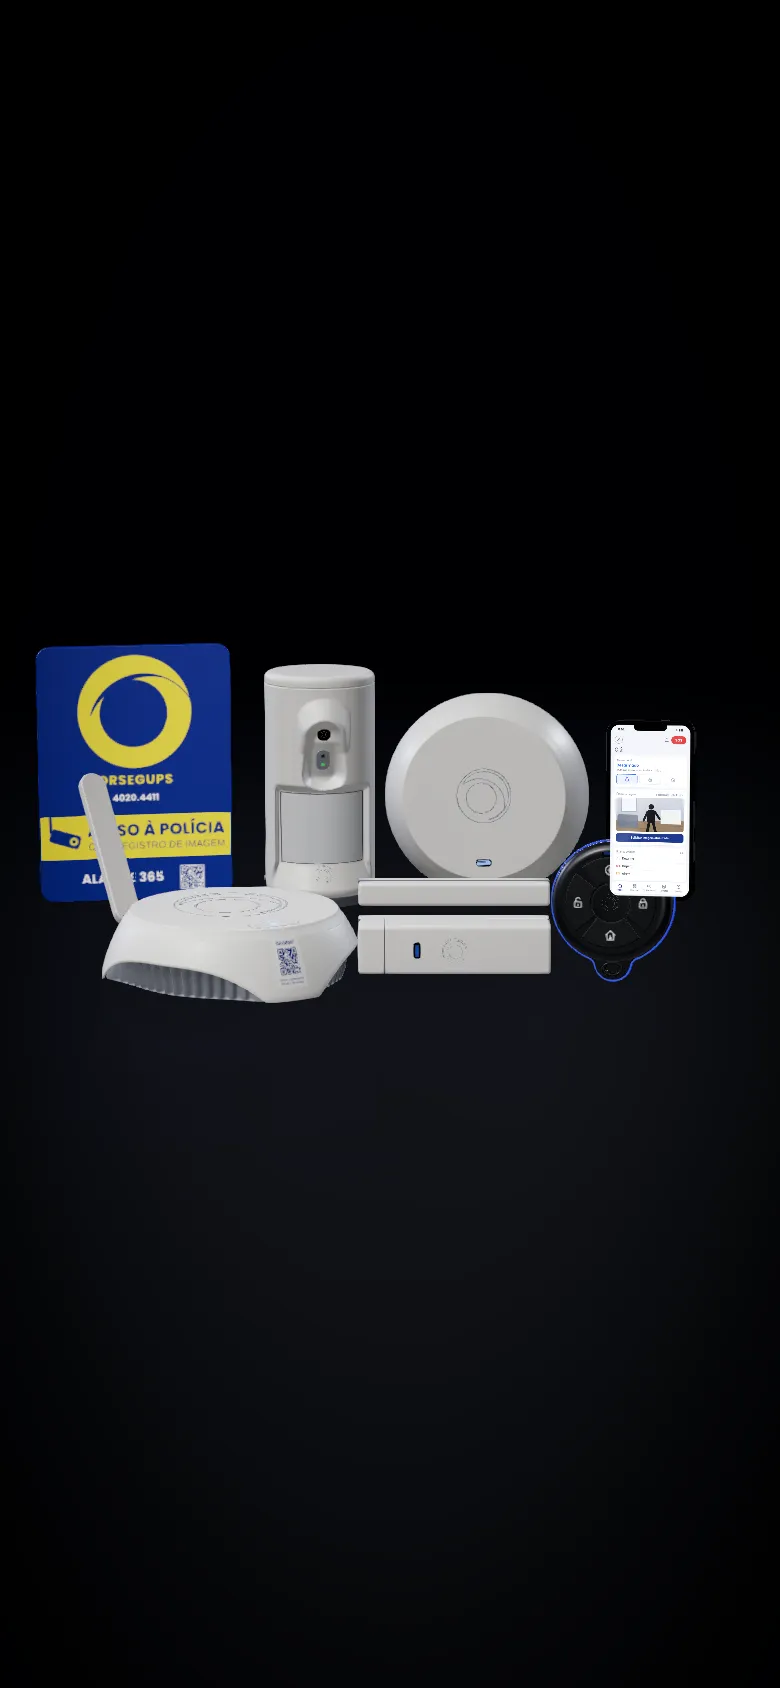
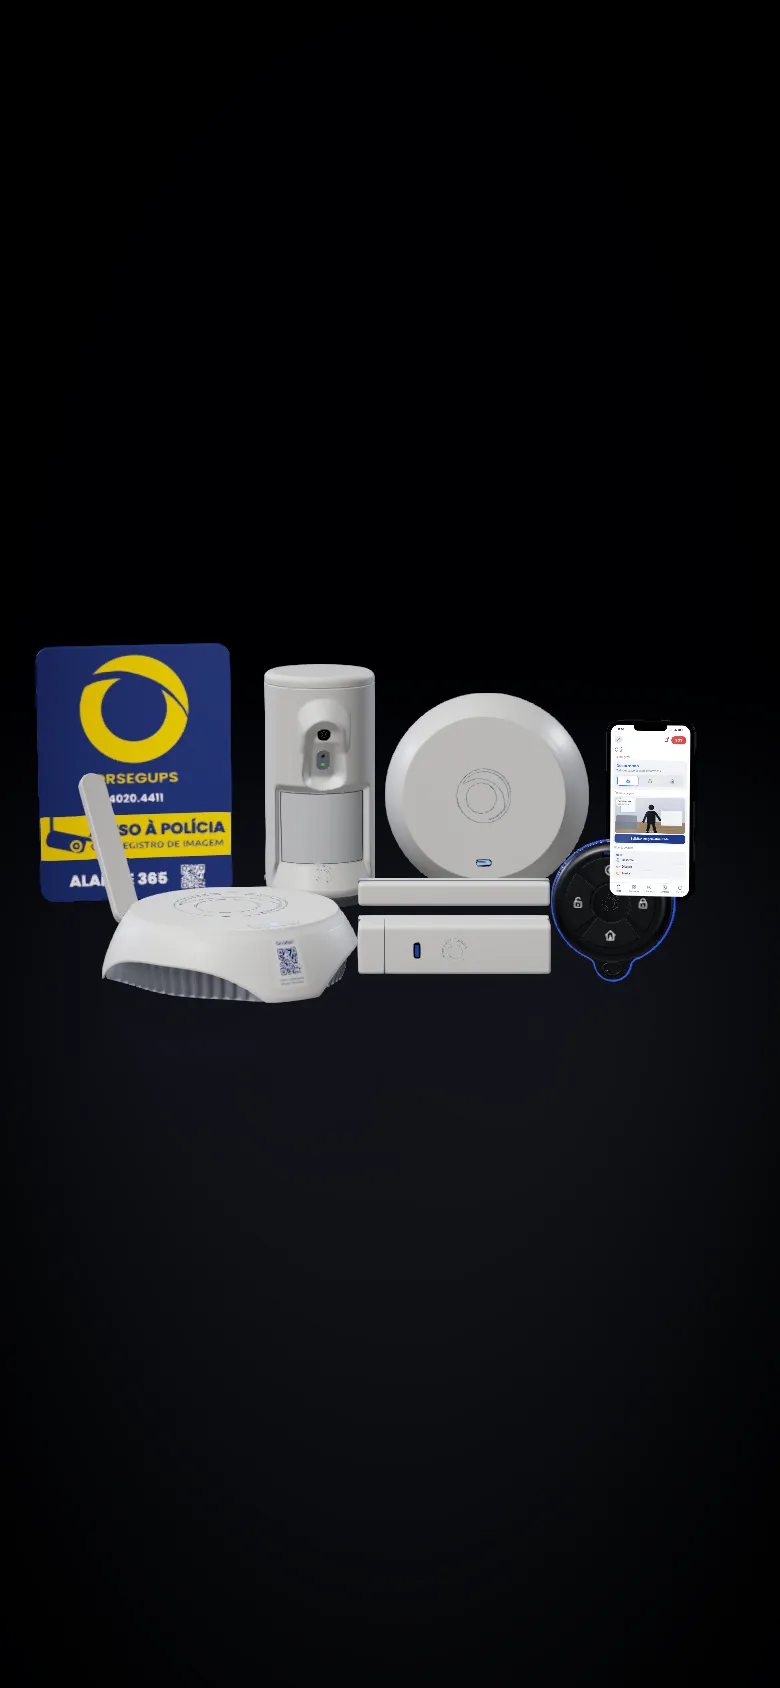
Docs, prints e imagem da abertura: placa e aplicativo
MODELAGEM.md descreve a placa (forma do logo, proporções da arte e a
correção de cor) e o aplicativo como ficaram; folha de antes/depois da
placa, do app e do card no celular; imagem da abertura regenerada.

Sem mudança de material, geometria ou carga neste commit.

Claude-Session: https://claude.ai/code/session_01JGedzfrxJd5vL5mskTPSnU

Changed region(s): [[0.0308, 0.3697, 0.3077, 0.5545], [0.7692, 0.4313, 0.8923, 0.5237]]

diff --git a/docs/MODELAGEM.md b/docs/MODELAGEM.md
@@ -88,16 +88,20 @@ O corpo é um seixo, não uma moeda: duas placas finas no contorno inteiro, em g
 
 ## Placa de aviso (1,5 × 2,0)
 
+A frente segue a arte oficial da placa (proporção 3:4): logo com 56% da largura no alto, "ORSEGUPS" e o telefone, faixa amarela de 66% a 83% da altura e rodapé com "ALARME 365" e o QR. O logo sai de `logoShape.ts`: o anel de dentro e o braço de fora, separados pelo corte curvo (largo à esquerda, rente ao miolo por cima, fino até a ponta da direita); a mesma forma desenha o logo da interface. As letras largas da arte são texto esticado na horizontal (`wideText`).
+
+As cores da marca saem exatas: o material da chapa leva `userData.brand`, e o `ClickablePart` acrescenta ao shader a inversa da curva de tone mapping (`brandPatch`), para o amarelo não lavar no fim do quadro. A chapa lisa usa uma textura azul de 1 px, de modo que a placa inteira usa um só programa de shader.
+
 | part.id | Como é modelada |
 |---|---|
-| `logo` | Anel amarelo grande com o swoosh recortado, em canvas de 2048 px, sobre a chapa azul de cantos redondos. |
-| `telefone` | Plano com "ORSEGUPS" e "4020.4411". |
-| `faixa` | Faixa amarela com o ícone de câmera e o aviso. |
-| `verso` | Plano traseiro com "ALARME 365" e o QR Code ilustrativo. |
+| `logo` | Anel amarelo com o corte, em canvas de 2048 px, sobre a chapa azul de cantos redondos. |
+| `telefone` | Plano com "ORSEGUPS" (amarelo, letras largas) e "4020.4411" (branco). |
+| `faixa` | Faixa amarela de ponta a ponta: câmera de segurança (haste, braço, corpo inclinado e lente) e o aviso em azul. |
+| `verso` | Plano traseiro com "ALARME 365" e o QR Code ilustrativo. No rodapé da frente o QR é branco sobre o azul, como na arte. |
 
 ## Aplicativo (0,95 × 1,95)
 
-O corpo do celular é uma extrusão de cantos redondos. A tela é React de verdade dentro do 3D (`<Html transform occlude>`, em `src/ui/AppScreen.tsx`), e cada região é uma parte: `sos`, `alarme-geral`, `ultimas-imagens`, `ultimos-eventos` e `menu`.
+O corpo do celular é uma extrusão de cantos redondos com aro metálico, botão de liga à direita, dois de volume à esquerda e, atrás, a ilha da câmera com duas lentes. A tela é React de verdade dentro do 3D (`<Html transform occlude>`, em `src/ui/AppScreen.tsx`), e cada região é uma parte: `sos`, `alarme-geral`, `ultimas-imagens`, `ultimos-eventos` e `menu`. O desenho segue a tela inicial do aplicativo: fundo branco, o nome de cada seção por fora e os cartões em cinza claro, o seletor de três estados, a foto com a etiqueta do aparelho no canto e os pontinhos de página, e o menu inferior de ponta a ponta. A barra de status (hora, sinal, 5G e bateria) é a mesma na tela clara e na tela "Imagem".
 
 ## Placas internas
 
